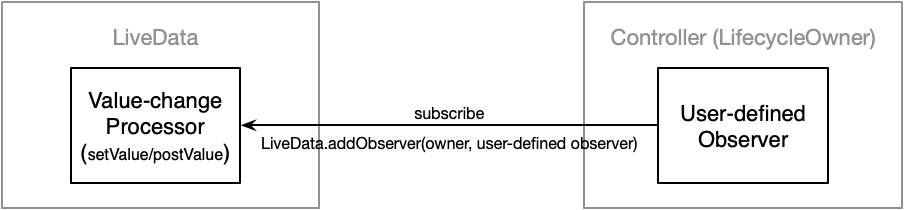
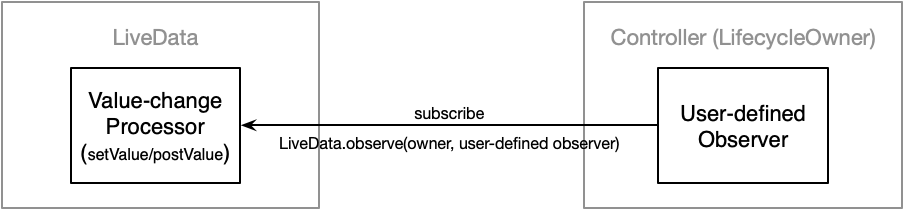
mvvm之LiveData篇

Changed region(s): [[0.2788, 0.6571, 0.7124, 0.7143]]

diff --git a/技术/android/mvvm之LiveData篇/mvvm之LiveData篇.md b/技术/android/mvvm之LiveData篇/mvvm之LiveData篇.md
@@ -10,6 +10,9 @@
 - <a href="#ch3">**3 LiveData 的事件变化**</a>
 - <a href="#ch4">**4 LifecycleOwner 的事件变化**</a>
     * <a href="#ch4.1">4.1 Lifecycle 接口的实现——LifecycleRegistry</a>
+        * <a href="#ch4.1.1">4.1.1 LifecycleRegistry 的订阅实现</a>
+        * <a href="#ch4.1.2">4.1.2 LifecycleRegistry 中的事件流</a>
+        * <a href="#ch4.1.3">4.1.3 处理生命周期的变化</a>
 
 <br>
 <br>
@@ -209,3 +212,75 @@ public class Activity/Fragment implements LifecycleOwner {
 当然，在具体的源代码中，与上述伪代码会有一些出入，但是大体的结构是一致的。在 Jetpack 框架中，这个 Lifecycle 的实现者叫做 LifecycleRegistry。所以我们这里重点需要关注的就是 LifecycleRegistry 这个 Lifecycle 的代理接口的实现类是如何通知生命周期事件变化的。
 
 #### <a name="ch4.1">4.1 Lifecycle 接口的实现——LifecycleRegistry</a>
+
+##### <a name="ch4.1.1">4.1.1 LifecycleRegistry 的订阅实现</a>
+
+如 2.2 节所述，通过 LiveData.observe(owner, user-defined observer)，LifecycleOwner 的业务层向 LiveData 订阅数据变化，而在 LiveData.observe() 方法内，同时会自动通过 Lifecycle.addObserver(LiveData-defined observer) 向 LifecycleOwner 订阅生命周期变化：
+
+```java
+// LiveData.observe()
+@MainThread
+public void observe(@NonNull LifecycleOwner owner, @NonNull Observer<? super T> observer) {
+
+    //...省略非关键代码
+
+    LifecycleBoundObserver wrapper = new LifecycleBoundObserver(owner, observer);
+
+    //...省略非关键代码
+
+    // 向 LifecycleOwner 发起订阅
+    owner.getLifecycle().addObserver(wrapper);
+}
+```
+
+以上方法内的 owner.getLifecycle() 的实际对象即为 LifecycleRegistry，我们来看一下 LifecycleRegistry.addObserver() 的基本订阅流程：
+
+![LifecycleRegistry addObserver](images/lifecycleregistry_addobserver.png "LifecycleRegistry addObserver")
+
+从整个流程来看，总体可以分为三步：
+
+- 第一步是初始化观察者对象的状态，并将观察者缓存入队；
+- 第二步是以模拟派发生命周期事件的形式，将新加入的观察者的状态提升到目前为止可提升的最大状态；
+- 第三步是同步所有观察者的状态到全局状态。
+
+我们可以看到，最后所有的观察者的状态都要同步到全局状态，全局状态即为 LifecyclerOwner 最新的状态。那么为什么需要进行这么繁琐的逐步模拟派发事件来进行同步呢？直接一步到位不行么？
+
+我们可以考虑一个生命周期感知组件 LifeLocation，其功能是用于进行定位，它订阅了 LifecycleOwner，我们假设 LifeLocation 需要在 CREATED 的时候进行一些必要的初始化，而在 STARTED 的时候开始执行定位操作。假如在 LifecycleRegistry 中的状态同步可以一步同步到全局状态，那么有可能当前的全局状态已经是 RESUMED 的了，这样 LifeLocation 既得不到初始化，也无从启用定位功能了。
+
+所以，以上这种看似繁琐的模拟派发状态事件的步骤是完全必要的，它让用户自定义的生命周期感知组件的状态切换流程是可预测的。
+
+##### <a name="ch4.1.2">4.1.2 LifecycleRegistry 中的事件流</a>
+
+我们在 4.1.1 节中的流程图的第 6 步中提到，要根据 observer.state 来计算下一个状态事件，也就是说按照事件的流向，根据当前的状态，下一个要发生的事件是什么。我们修改一下 1.2 节的时序图如下：
+
+![LifecycleRegistry events flow](images/lifecycleregistry_event_flow.png "LifecycleRegistry events flow")
+
+观察到图中左边的蓝色箭头，举个例子，假如当前的状态是 CREATED，那么接下来要发生的事件应该是 ON_START。蓝色箭头指示的事件流方向是生命周期由无到生的过程，我们称为 upEvent 流；与此对应，右边的红色箭头指示的事件流方向是生命周期由生到死的过程，我们称之为 downEvent。
+
+4.1.1 节中的流程图的第 6 步中正好需要进行 upEvent 流操作。除此以外，我们在第 7 步同步到全局状态时，还需要用到 upEvent 和 downEvent 流操作，且在 LifecycleOwner 的每一次生命周期的变化中，都需要进行上述第 7 步的状态同步操作。接下来我们就看一看，当 LifecycleOwner 生命周期变化后，发生了什么。
+
+##### <a name="ch4.1.3">4.1.3 处理生命周期的变化</a>
+
+在 4 节开头我们描述了 LifecycleImpl.handleLifecycleEvent() 方法，在 LifecycleRegistry 中也有一个同名的方法，其功能就是处理 LifecycleOwner 生命周期的变化。handleLifecycleEvent() 的处理过程是这样的：
+
+![LifecycleRegistry handleLifecycleEvent](images/handlelifecycleevent.png "LifecycleRegistry handleLifecycleEvent")
+
+如图所示：
+
+- Sync 标记的部分是进行状态同步的核心流程，同时也是 4.1.1 节流程图中的第 7 步的具体实现；
+- 每一次生命周期的变化有可能是从无到生的 up 变化，也有可能是从生到死的 down 变化；
+- 如果是 up 变化，则需要进行 upEvent 流处理，如果是 down 变化，则需要进行 downEvent 流处理；
+- 根据 4.1.1 节的描述，我们可以得出，在观察者队列中的所有观察者，从最老（最开始）到最新（最末），必定维持一个不变性质：非降序排列；
+- 所以当 STATE < eldestState 时，说明观察者队列中的所有观察者状态都大于全局状态，这时候说明生命周期变化顺序是 down 方向的，需要进行 downEvent 流处理；
+- 而当 STATE > newestState 时，说明观察者队列中的所有观察者状态都小于全局状态，这时候说明生命周期变化顺序是 up 方向的，需要进行 upEvent 流处理；
+- 无论是 downEvent 流还是 upEvent 流，都会逐步派发生命周期事件给各个观察者。
+
+
+关于 downEvent 流和 upEvent 流，我画了一张更加形象的图用以加深理解：
+
+![downEvent and upEvent](images/downevent_and_upevent.png "downEvent and upEvent")
+
+
+
+
+
